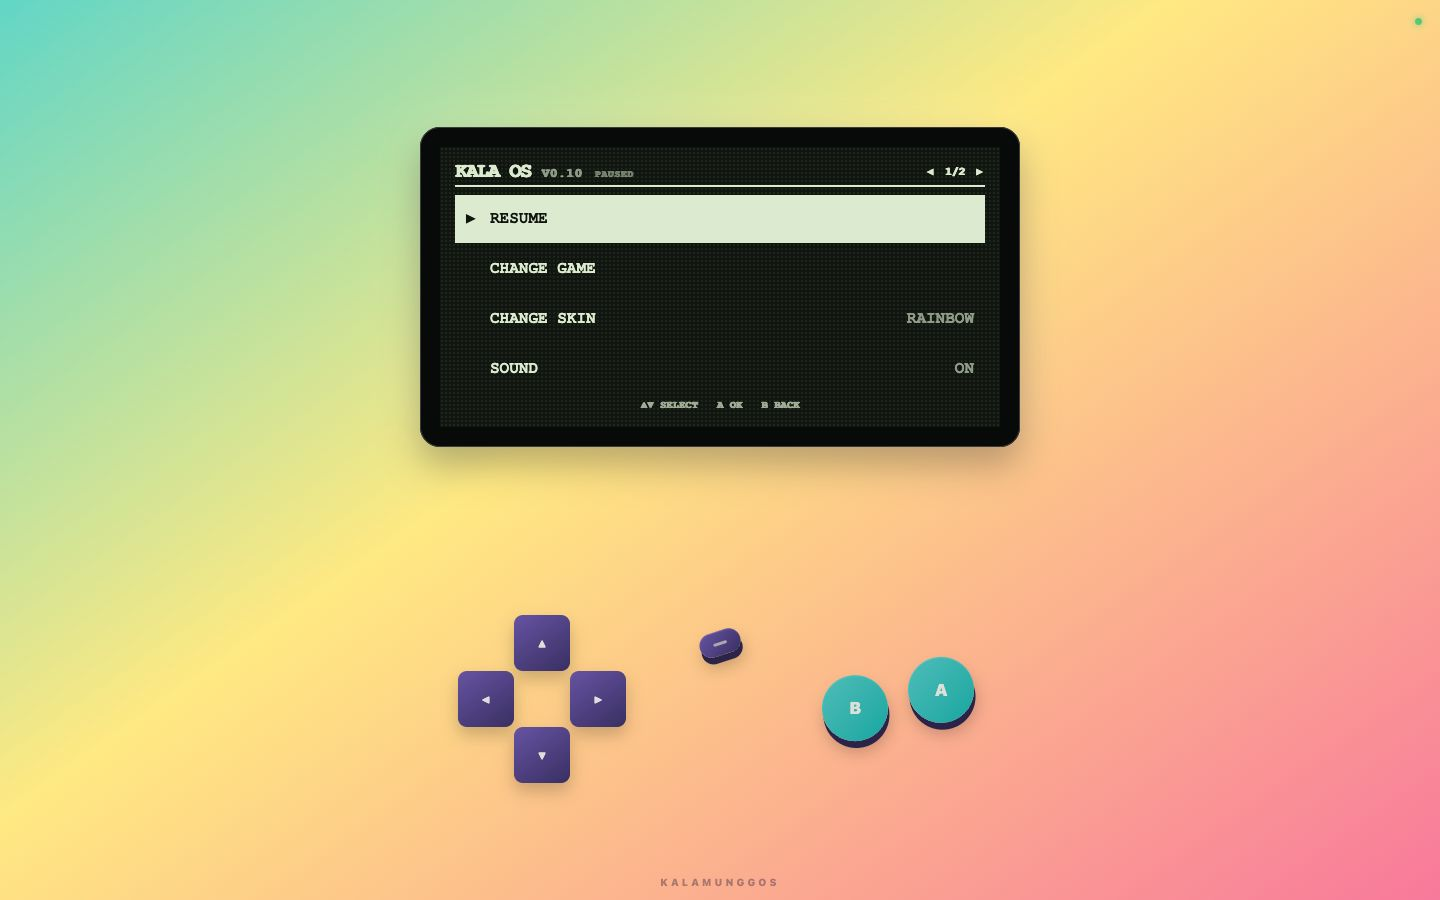
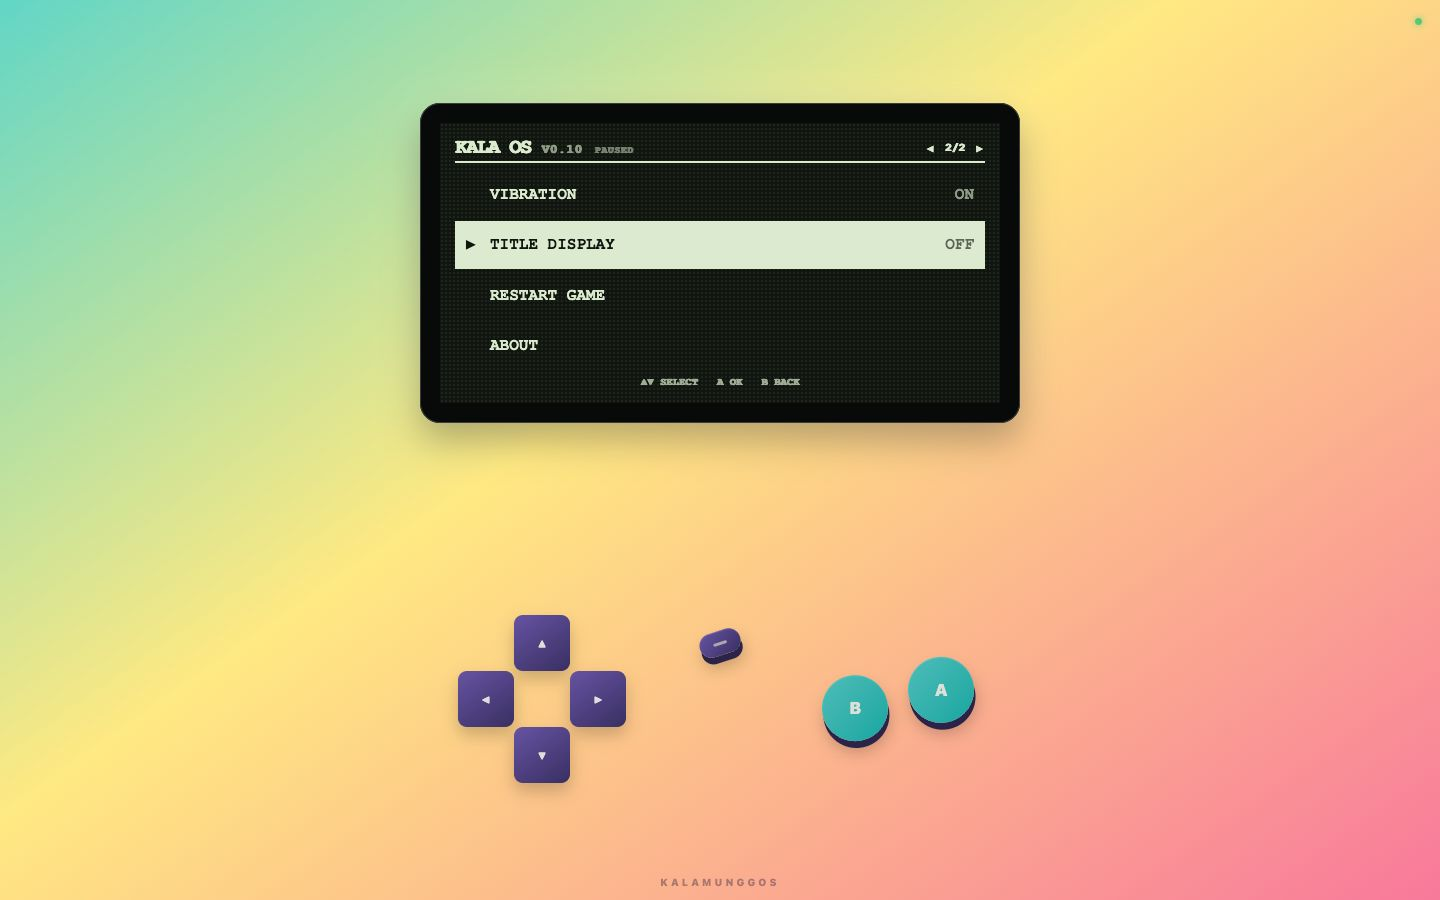
Fix title display hidden layout behavior

Changed region(s): [[0.2812, 0.0933, 0.7188, 0.5289], [0.625, 0.3422, 0.6875, 0.3733]]

diff --git a/src/main.ts b/src/main.ts
@@ -107,15 +107,21 @@ function updateSettingsUi(): void {
   root.querySelector<HTMLElement>(".vibration-state")!.textContent = settings.vibration ? "On" : "Off";
   root.querySelector<HTMLElement>(".title-state")!.textContent = settings.titleDisplay ? "On" : "Off";
   titleDisplay.hidden = !settings.titleDisplay || !activeDefinition;
+  if (!titleDisplay.hidden) updateTitleOverflow();
   saveSettings(settings);
+}
+
+function updateTitleOverflow(): void {
+  title.classList.remove("is-scrolling");
+  requestAnimationFrame(() => {
+    if (titleDisplay.hidden) return;
+    title.classList.toggle("is-scrolling", title.scrollWidth > title.parentElement!.clientWidth);
+  });
 }
 
 function updateTitle(definition: GameDefinition): void {
   title.textContent = definition.displayName;
-  title.classList.remove("is-scrolling");
-  requestAnimationFrame(() => {
-    title.classList.toggle("is-scrolling", title.scrollWidth > title.parentElement!.clientWidth);
-  });
+  updateTitleOverflow();
 }
 
 function wrapSelection(index: number, length: number): number {

diff --git a/src/styles.css b/src/styles.css
@@ -60,7 +60,6 @@ button { font: inherit; }
   background: linear-gradient(160deg, #343833, #171a17);
   box-shadow: inset 0 1px 1px rgba(255,255,255,.13), 0 5px 10px rgba(0,0,0,.2);
 }
-.title-display[hidden] { display: block !important; visibility: hidden; }
 .title-display-window {
   position: relative;
   overflow: hidden;
